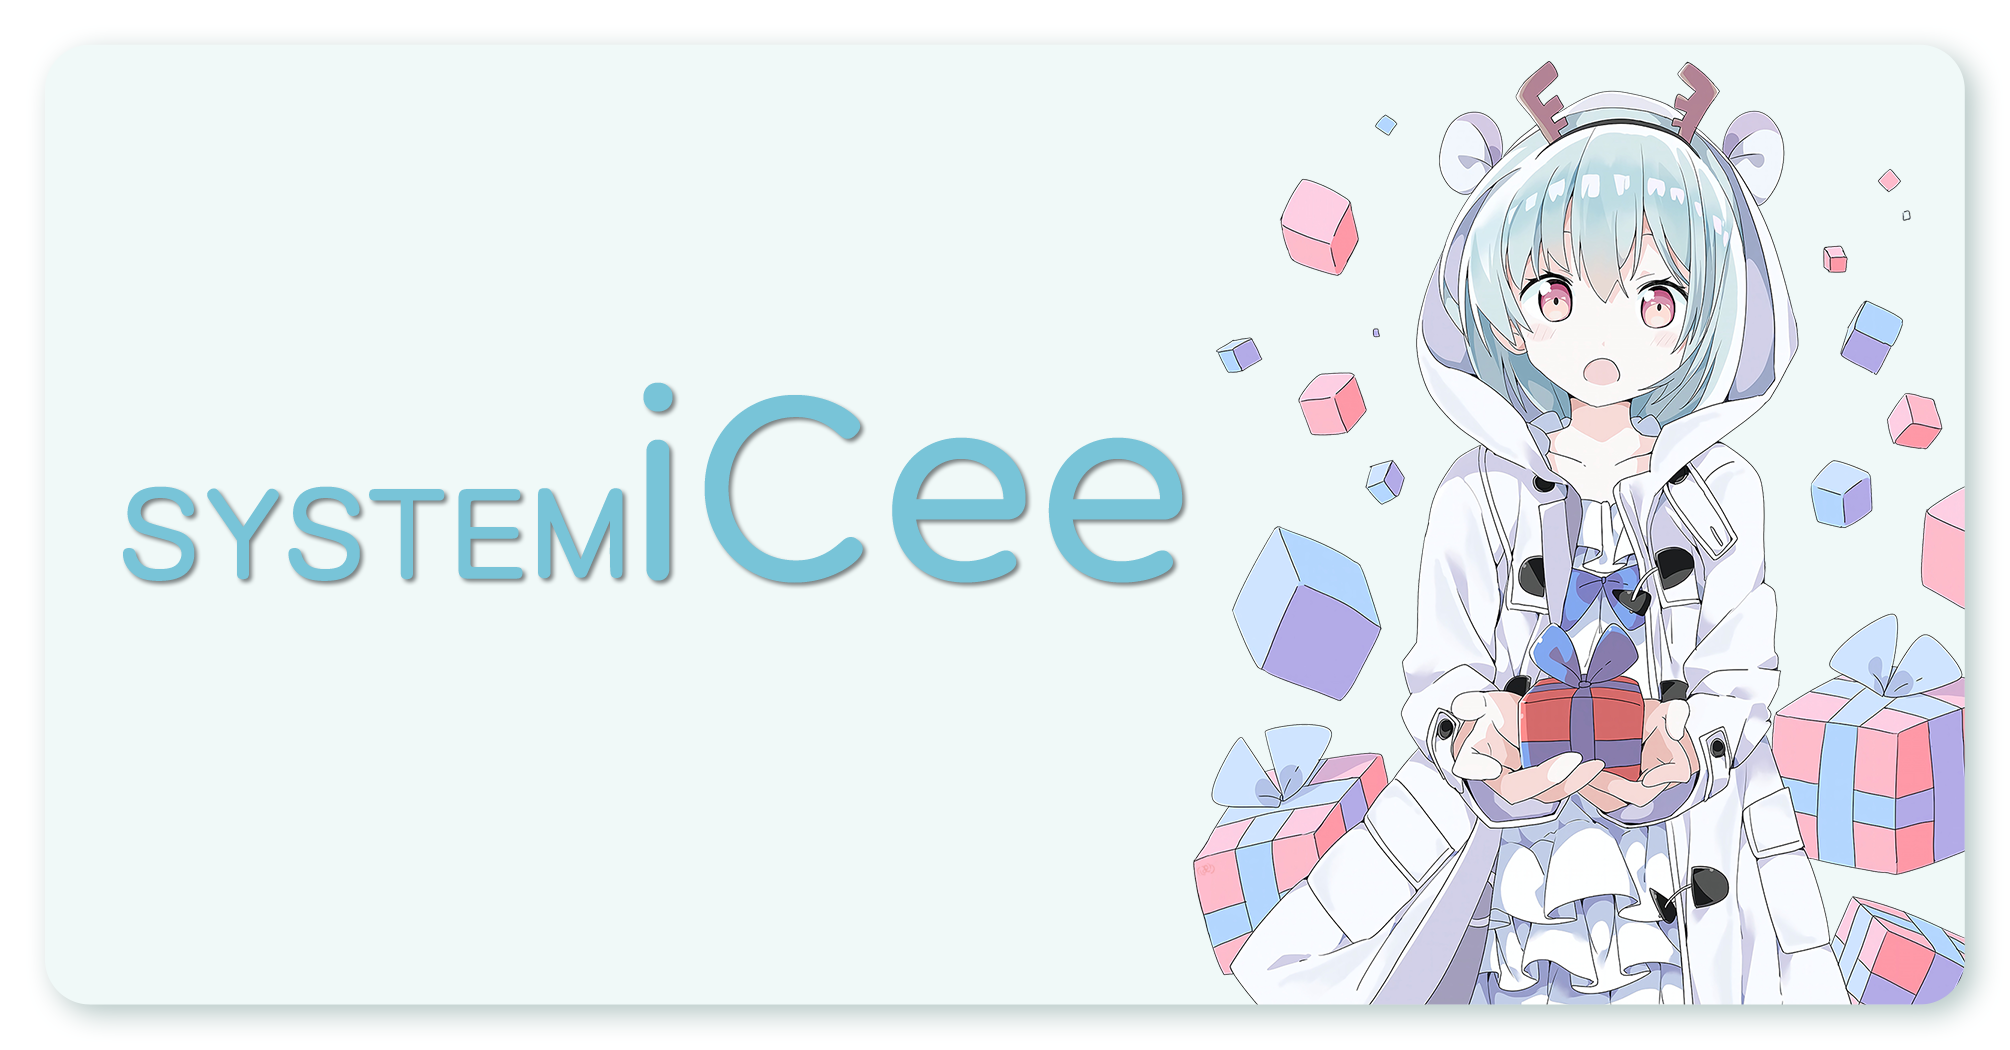
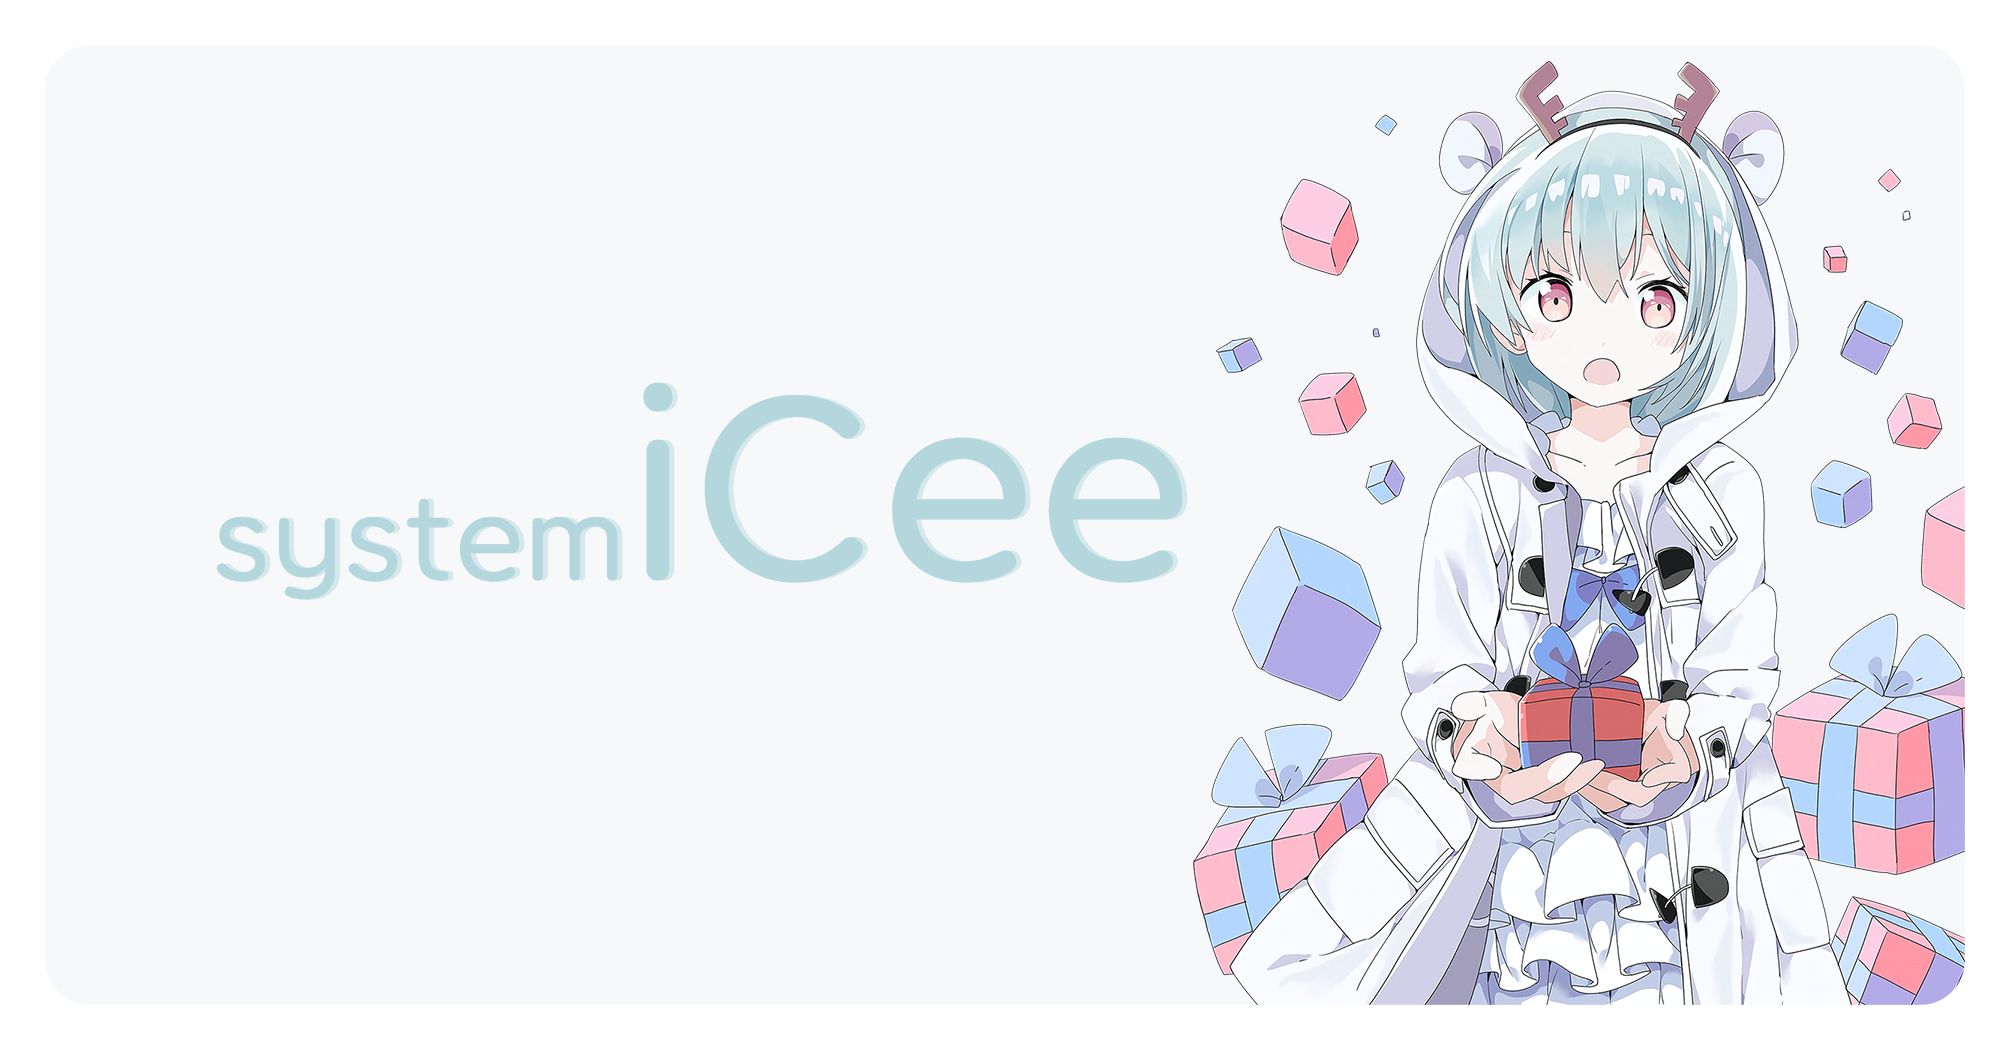
build 52.1 | 更新标题图片

Changed region(s): [[0.0617, 0.3657, 0.6169, 0.579], [0.0308, 0.061, 0.9871, 0.9752], [0.3085, 0.3657, 0.3393, 0.3962]]

diff --git a/readme.md b/readme.md
@@ -2,7 +2,8 @@
 
 ![post.png](post-card@0.75x.png)
 
-一个 Java 平台上的综合性 Bot 系统
+一个 Java 平台上的 Bot 框架<br/>
+~~亦或不只是 Bot 的框架~~
 
 [~~English~~]()
 | *Chinese*
